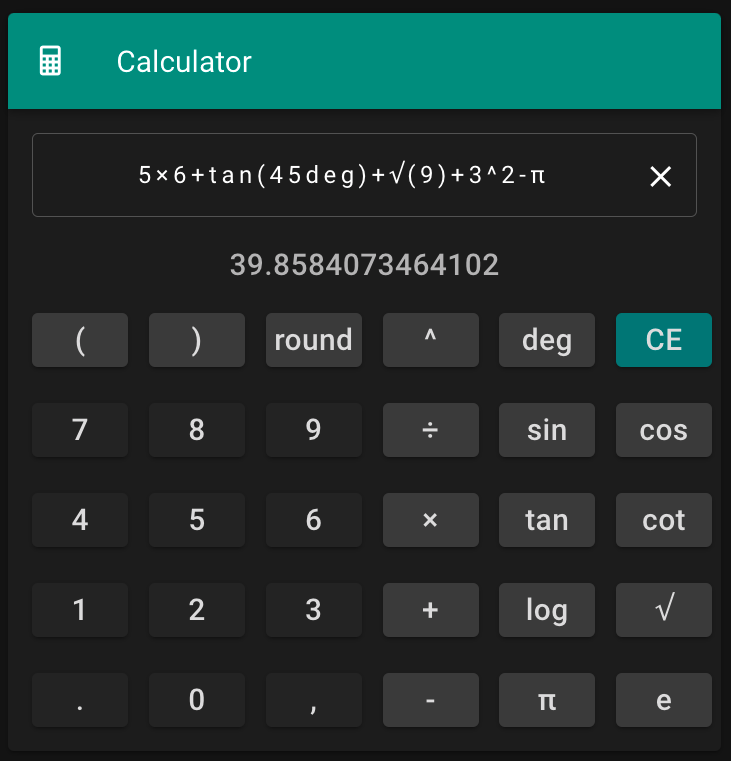
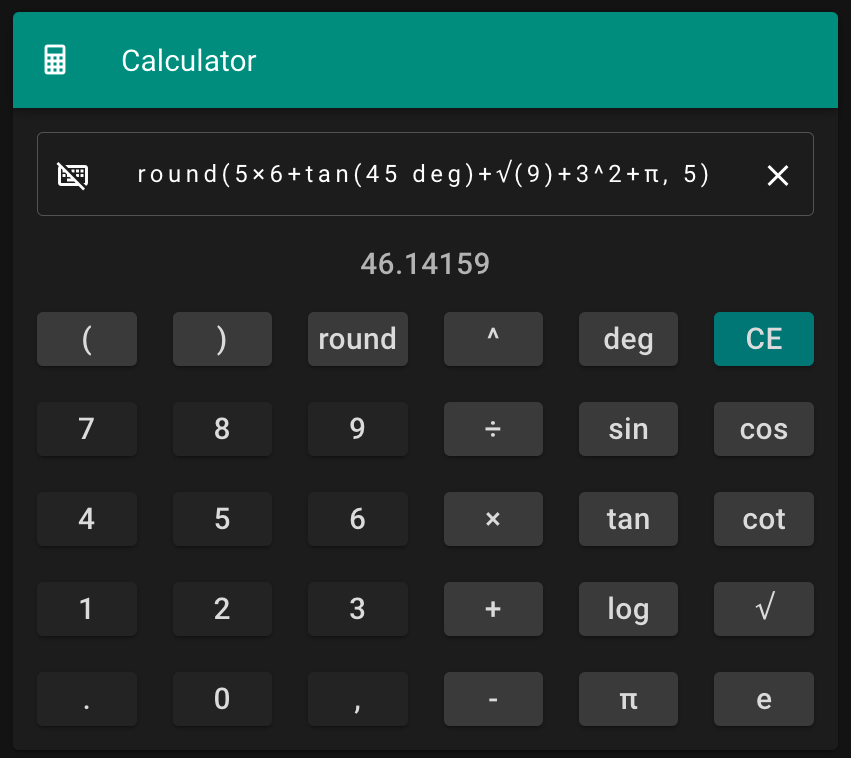
add keyboard toggle button

diff --git a/3-calculator/pages/index.vue b/3-calculator/pages/index.vue
@@ -1,7 +1,7 @@
 <template>
   <v-row justify="center" align="center">
     <v-col cols="12" sm="8" md="6">
-      <v-card max-width="475" class="mx-auto">
+      <v-card max-width="550" class="mx-auto">
         <v-toolbar dark color="teal">
           <v-app-bar-nav-icon>
             <v-icon>mdi-calculator</v-icon>
@@ -12,9 +12,11 @@
           <v-text-field
             class="calculator-display"
             clearable
+            @click:prepend-inner="readonly = !readonly"
+            :readonly="readonly"
             v-model="display"
+            :prepend-inner-icon="readonly ? 'mdi-keyboard-off-outline' : 'mdi-keyboard-outline'"
             hide-details
-            readonly
             outlined
           />
           <v-card-text style="height: 64px" class="text-center text-h6" v-text="result" />
@@ -33,6 +35,7 @@ export default {
   components: {Buttons},
   data() {
     return {
+      readonly: true,
       operators: ['+', '-', '×', '÷'],
       display: '',
       result: '',

diff --git a/3-calculator/components/Buttons.vue b/3-calculator/components/Buttons.vue
@@ -268,7 +268,6 @@ export default {
     atClick(button) {
       switch (button.type) {
         case 'input':
-          return this.$emit('pressed', button)
         case 'operator':
           return this.$emit('pressed', button)
         default:
